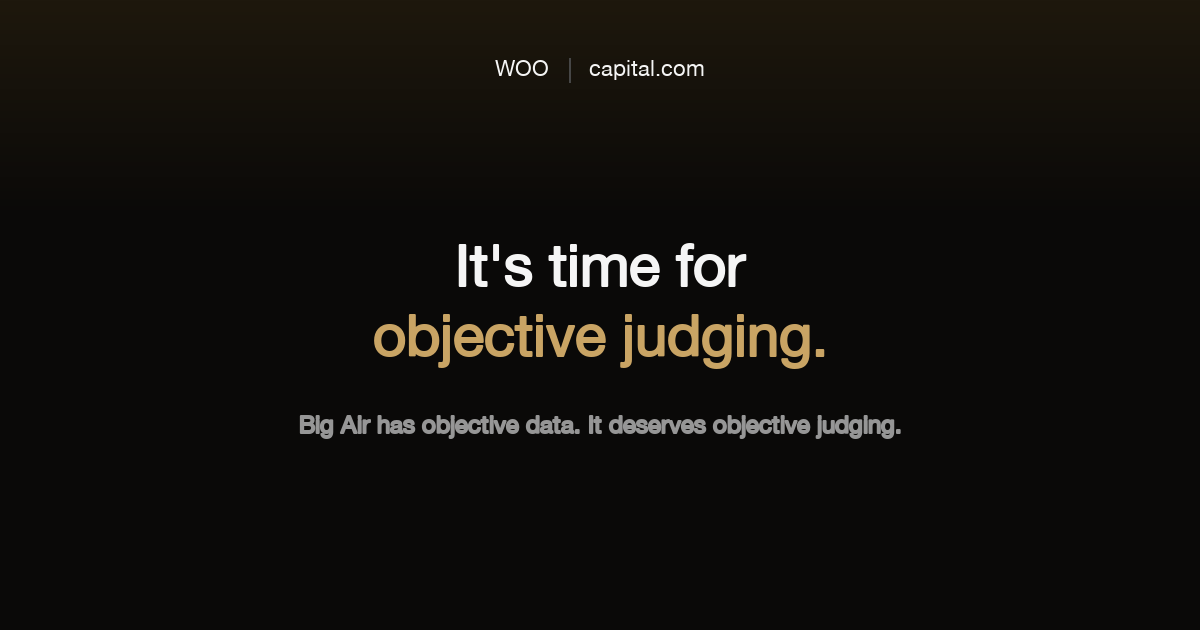
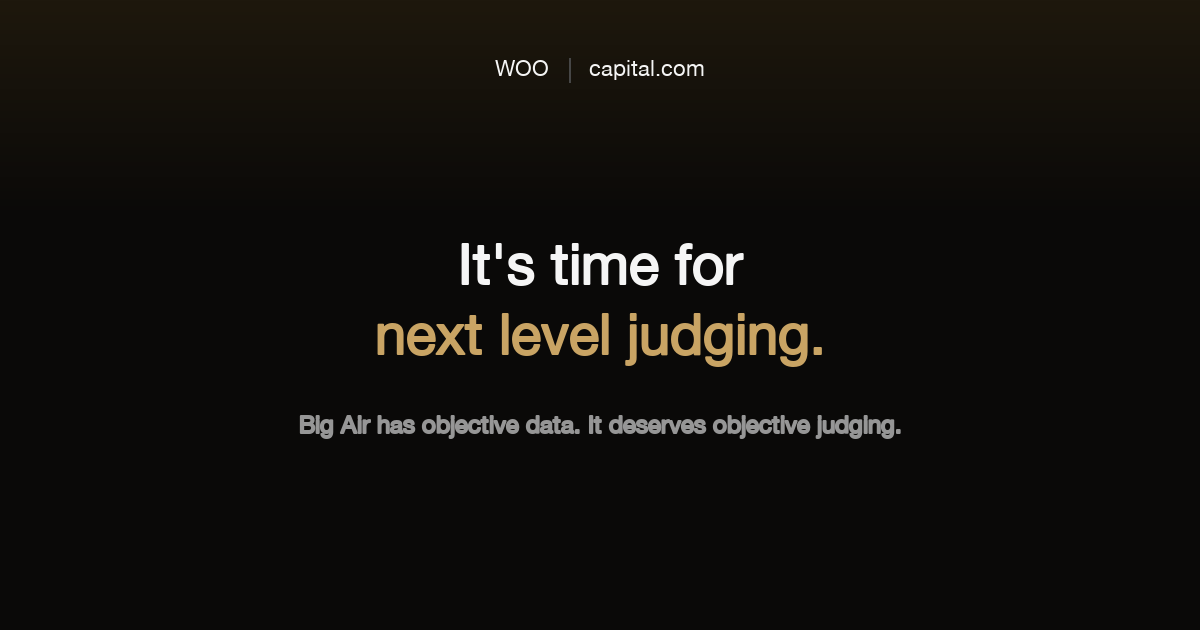
Update hero headline to "It's time for next level judging."
Per Harlem CEO feedback (punch list item #1): the old "objective
judging." payoff read flat. Updated the hero, page title, OG/Twitter
meta tags, and the social share image to match.

Changed region(s): [[0.3083, 0.4825, 0.6783, 0.6032], [0.37, 0.3921, 0.6167, 0.4524]]

diff --git a/index.html b/index.html
@@ -3,7 +3,7 @@
   <head>
     <meta charset="UTF-8" />
     <meta name="viewport" content="width=device-width, initial-scale=1.0" />
-    <title>It's time for objective judging.</title>
+    <title>It's time for next level judging.</title>
     <meta name="description" content="Big Air has objective data. It deserves objective judging." />
     <meta name="author" content="Woo x Capital.com" />
     <link rel="icon" type="image/x-icon" href="%BASE_URL%favicon.ico" />
@@ -14,13 +14,13 @@
     <link rel="preconnect" href="https://fonts.gstatic.com" crossorigin>
     <link href="https://fonts.googleapis.com/css2?family=Inter:wght@400;500;600;700;800&display=optional" rel="stylesheet">
 
-    <meta property="og:title" content="It's time for objective judging." />
+    <meta property="og:title" content="It's time for next level judging." />
     <meta property="og:description" content="Big Air has objective data. It deserves objective judging." />
     <meta property="og:type" content="website" />
     <meta property="og:image" content="https://naick1994.github.io/big-air-scoring-system/og-image.png" />
 
     <meta name="twitter:card" content="summary_large_image" />
-    <meta name="twitter:title" content="It's time for objective judging." />
+    <meta name="twitter:title" content="It's time for next level judging." />
     <meta name="twitter:description" content="Big Air has objective data. It deserves objective judging." />
     <meta name="twitter:image" content="https://naick1994.github.io/big-air-scoring-system/og-image.png" />
     <script>

diff --git a/src/pages/ChangeTheTide.tsx b/src/pages/ChangeTheTide.tsx
@@ -1414,7 +1414,7 @@ export default function ChangeTheTide() {
         <div className="container mx-auto px-4 max-w-5xl relative flex-1 flex flex-col justify-center">
           <h1 className="text-6xl md:text-8xl font-bold leading-[1.05] tracking-tight max-w-5xl">
             <span className="block" style={heroStep(150)}>It's time for</span>
-            <span className="block text-primary" style={heroStep(320)}>objective judging.</span>
+            <span className="block text-primary" style={heroStep(320)}>next level judging.</span>
           </h1>
           <p className="text-xl md:text-2xl text-muted-foreground mt-8 max-w-2xl" style={heroStep(520)}>
             Big Air has objective data. It deserves objective judging.